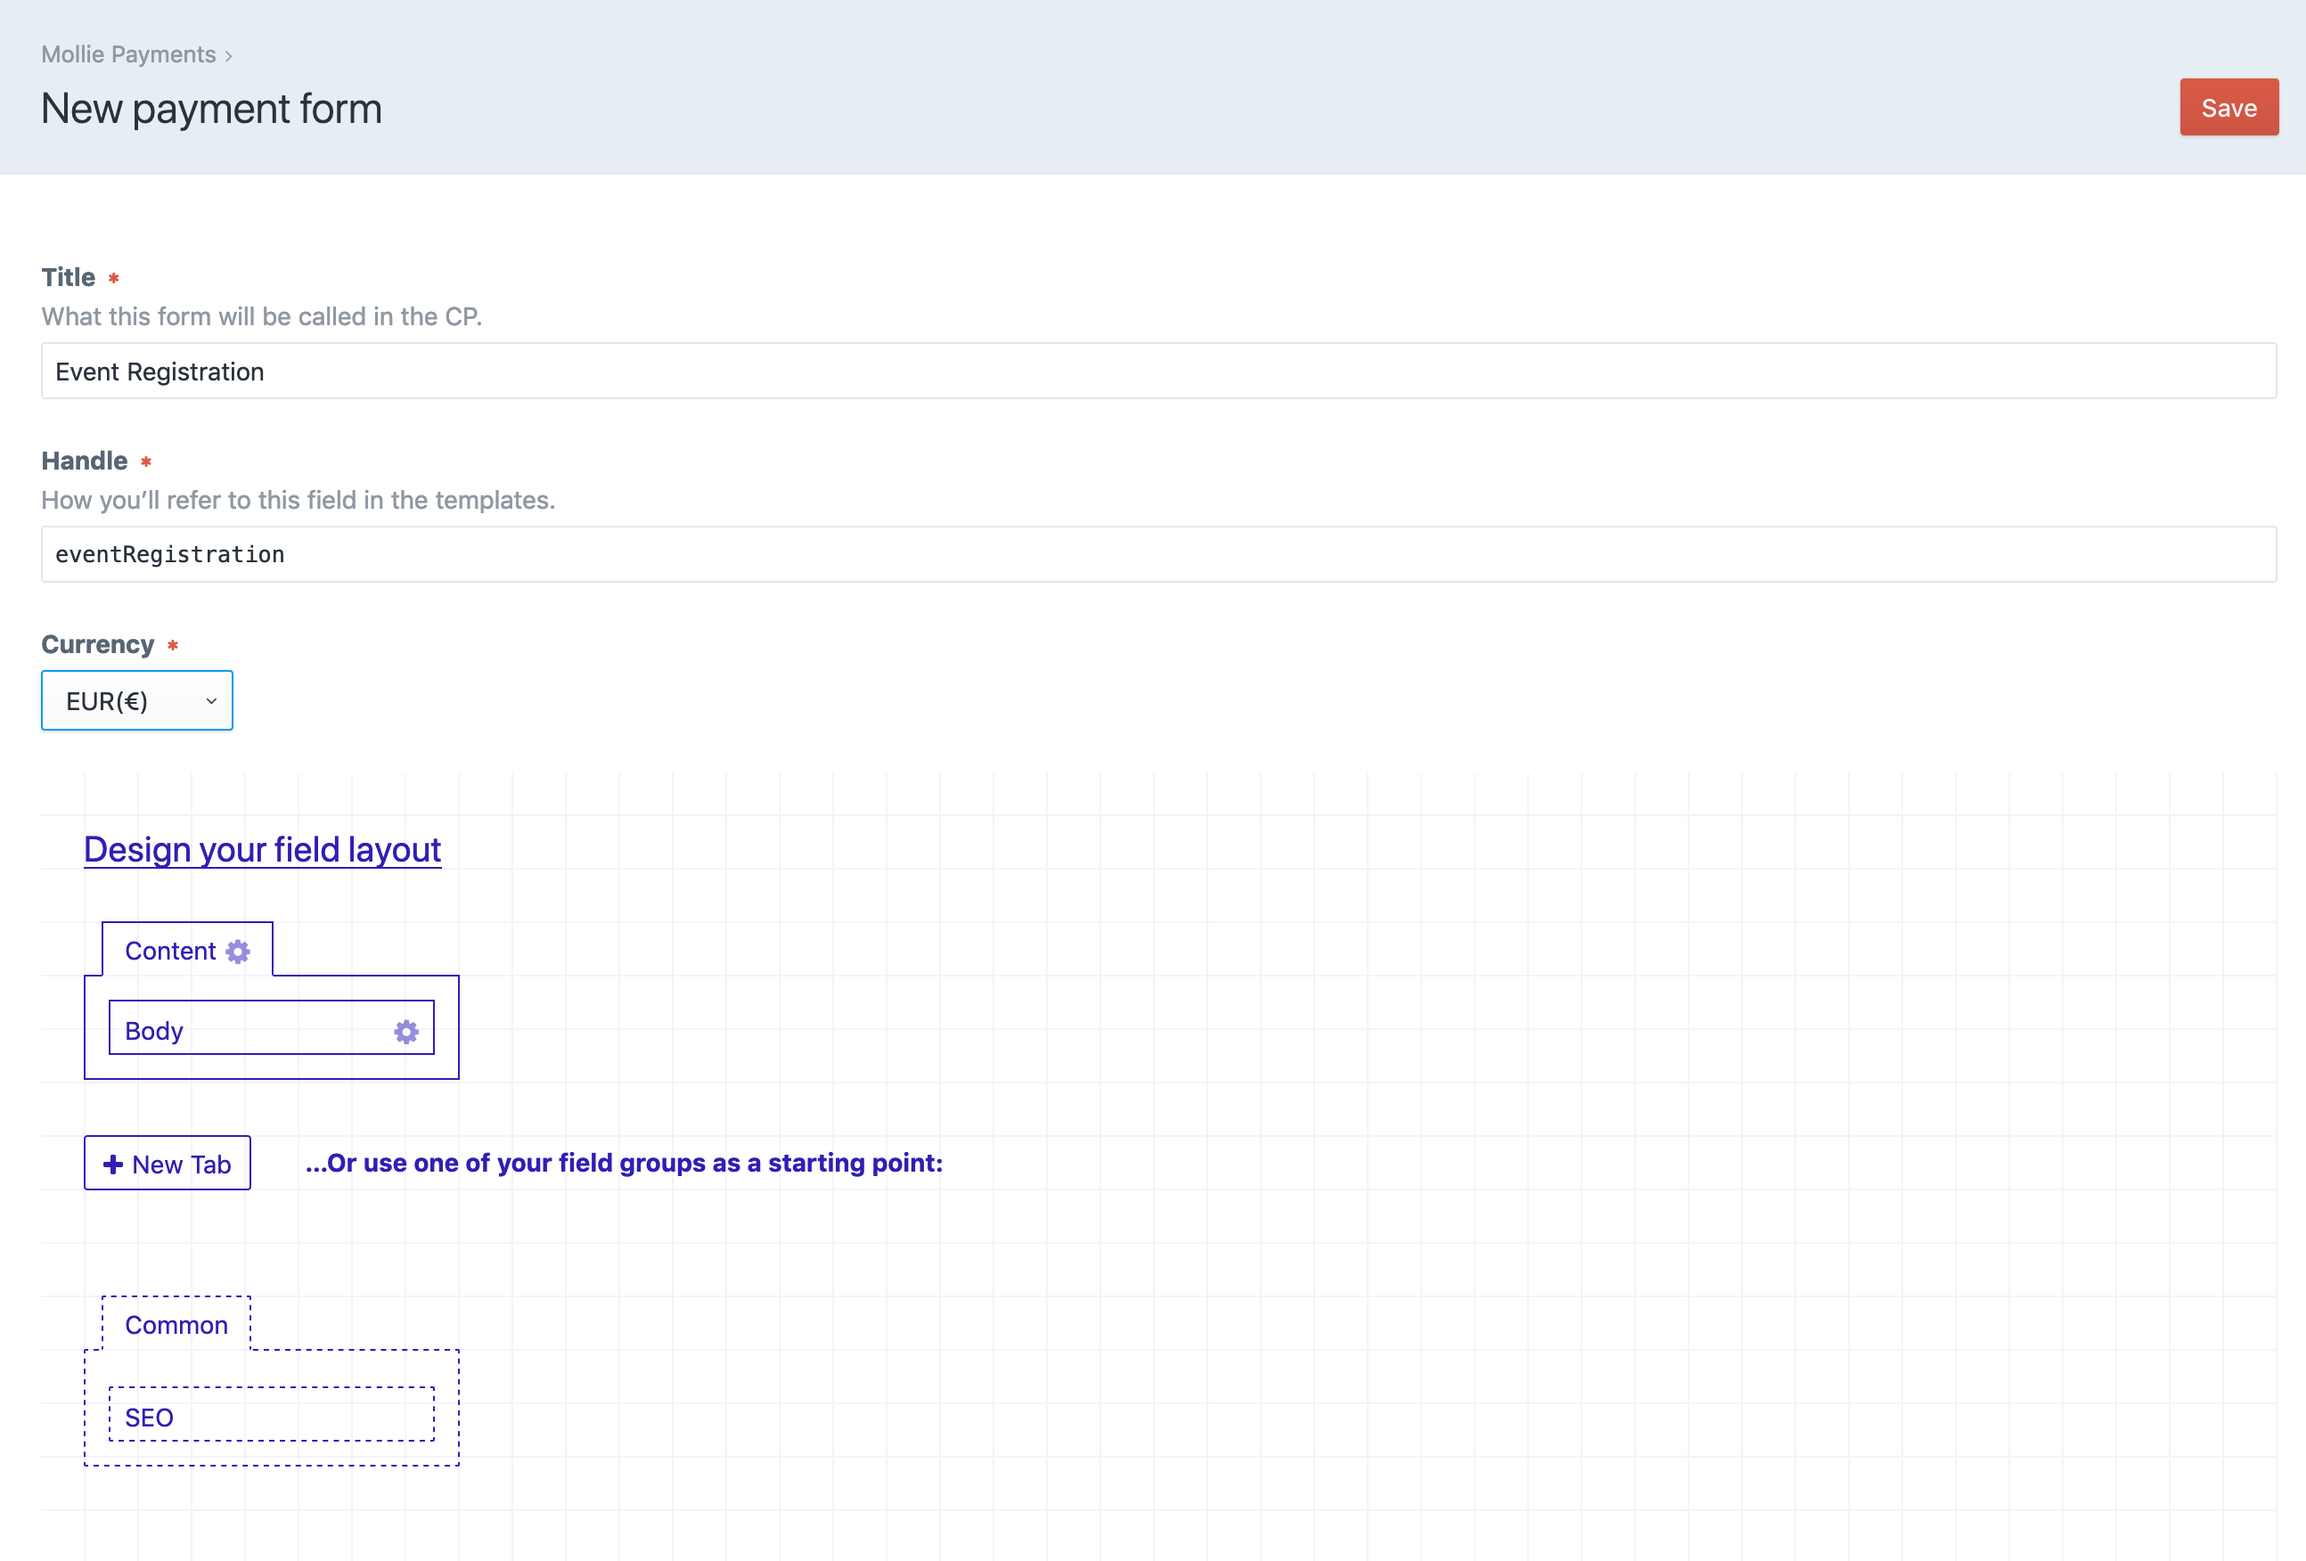
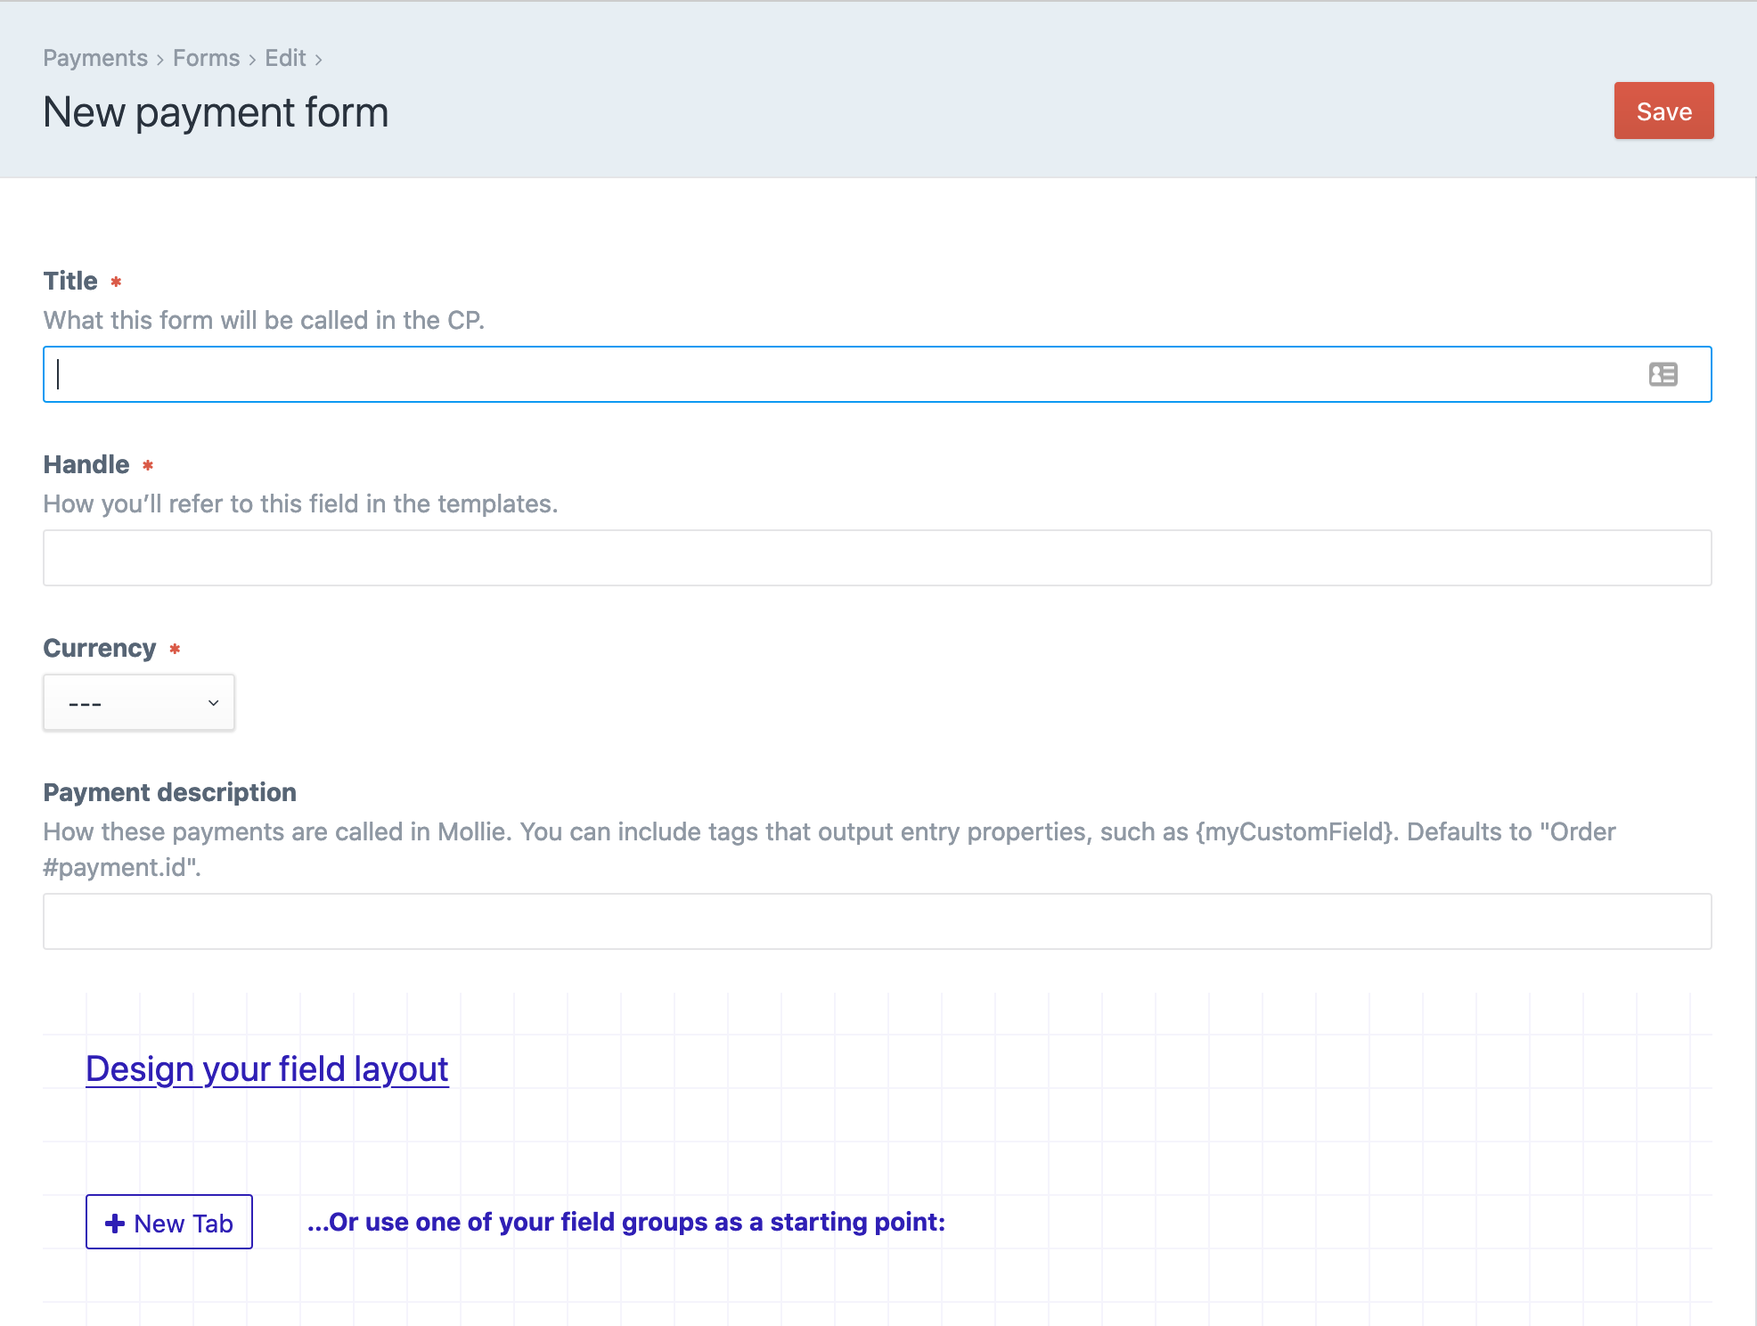
Added new payment description to docs

diff --git a/docs/element.md b/docs/element.md
@@ -15,8 +15,16 @@ In the CP, payments are grouped by form and can be search on email, amount or an
 
 ## Payment forms
 
-Payment forms are where you define the field layout for the your payment and the currency it should processed in.
-The form is passed through the payment form as follows
+Payment forms are where you define the field layout for the your payment, as well as the following properties:
+- the title & handle of the form, currently only visible in the CP
+- the currency the payment will be processes in
+- the description of the payment in Mollie. This field works like the dynamic title field on an Entrytype, so you can use custom fields in it as well. Will default to ``Order #number``.
+
+<img src="./images/paymentform.png">
+
+
+
+Which form the payment is for is determined by passing the following hidden field along in your payment form template:
 `````html
 <input type="hidden" name="form" value="{{ 3|hash }}">
 `````
